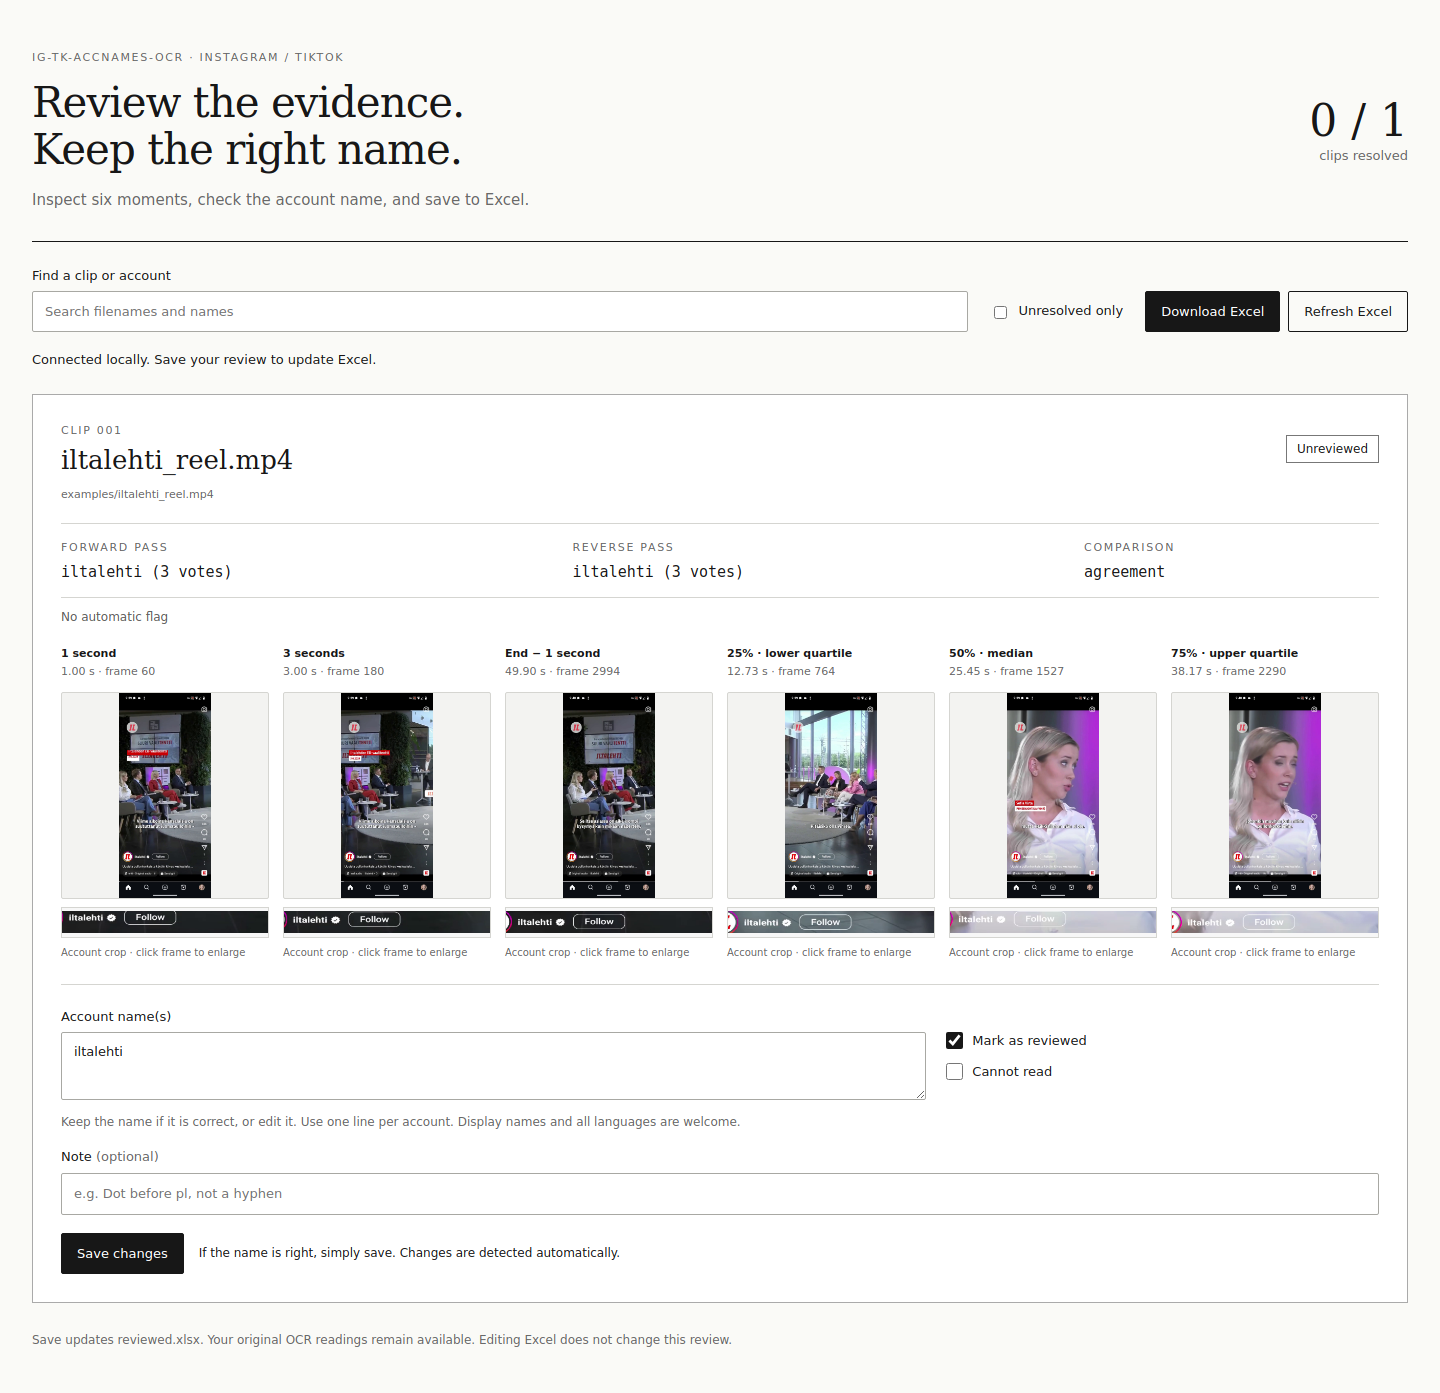
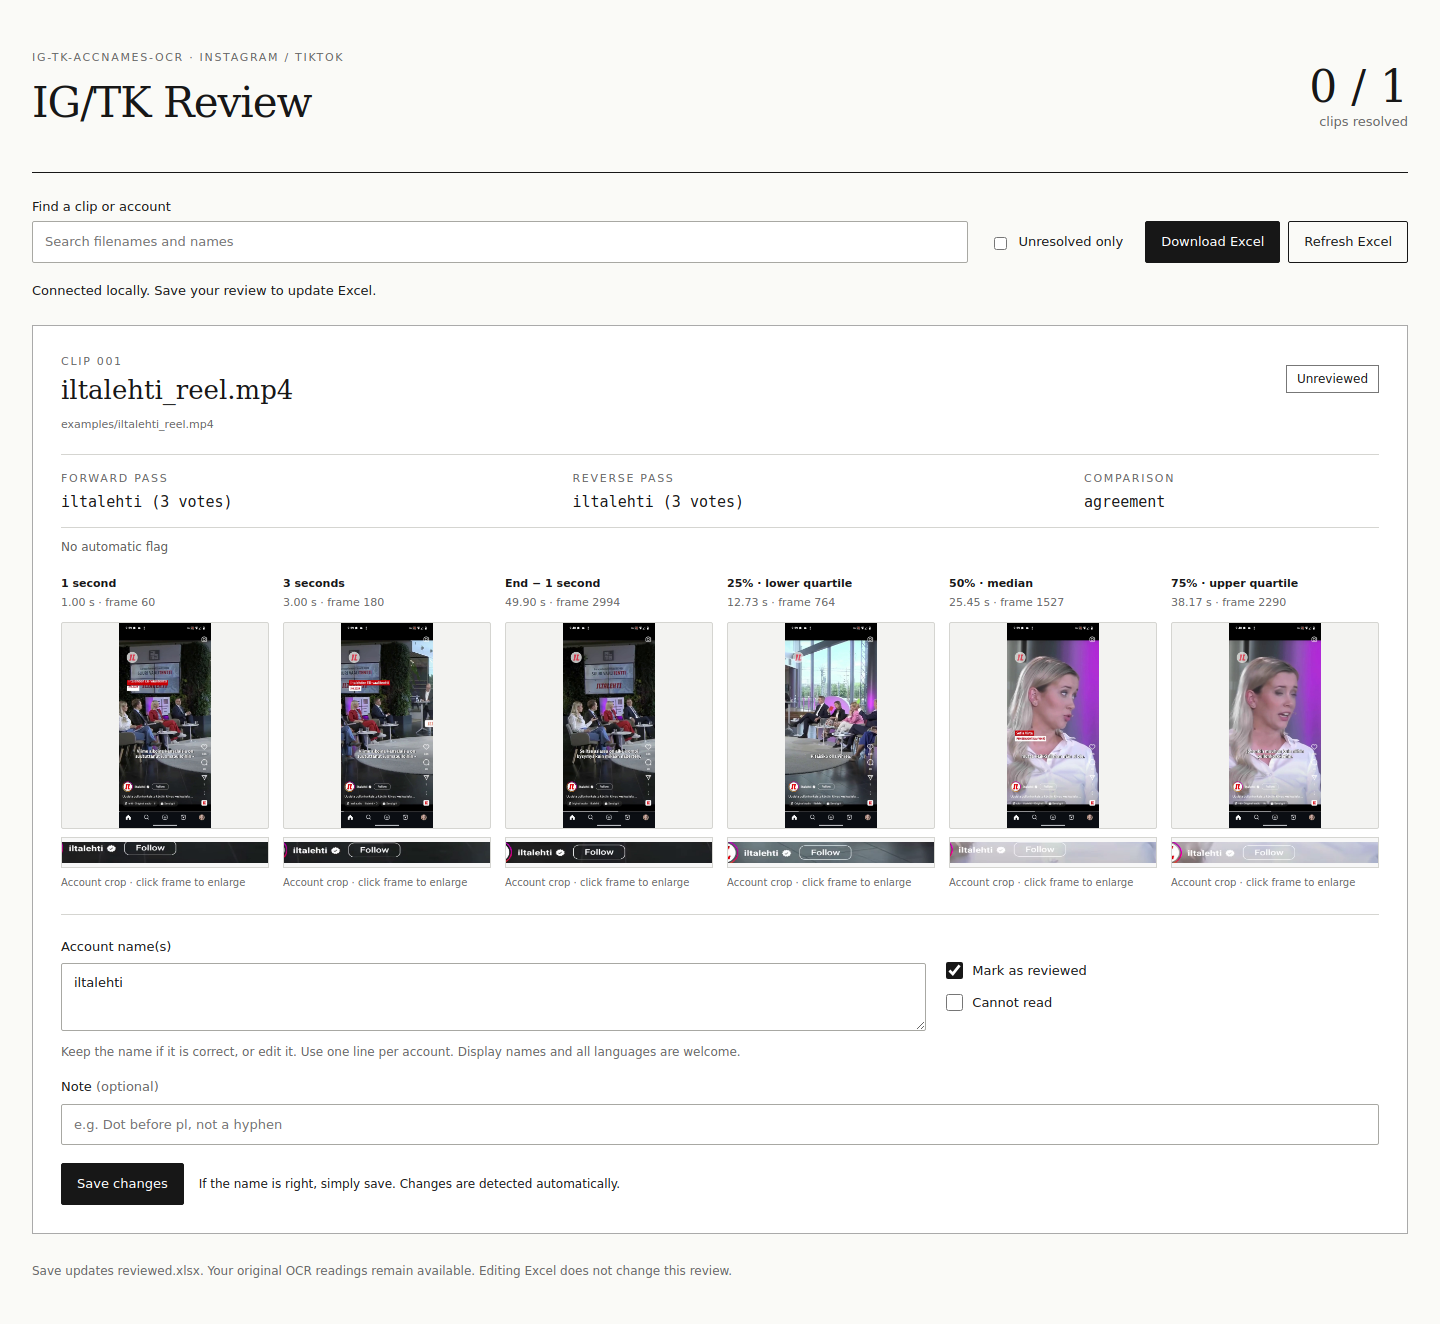
simpler review heading

diff --git a/examples/review_demo/review.html b/examples/review_demo/review.html
@@ -1,5 +1,5 @@
-<!doctype html><html lang="en"><head><meta charset="utf-8"><meta name="viewport" content="width=device-width,initial-scale=1"><title>IG-TK-AccNames-OCR · Review</title><link rel="stylesheet" href="review.css"><script src="review.js" defer></script></head><body>
-<header><div><span class="eyebrow">IG-TK-AccNames-OCR · INSTAGRAM / TIKTOK</span><h1>Review the evidence.<br>Keep the right name.</h1><p>Inspect six moments, check the account name, and save to Excel.</p></div><div class="progress"><strong id="count">—</strong><span>clips resolved</span></div></header>
+<!doctype html><html lang="en"><head><meta charset="utf-8"><meta name="viewport" content="width=device-width,initial-scale=1"><title>IG/TK Review</title><link rel="stylesheet" href="review.css"><script src="review.js" defer></script></head><body>
+<header><div><span class="eyebrow">IG-TK-AccNames-OCR · INSTAGRAM / TIKTOK</span><h1>IG/TK Review</h1></div><div class="progress"><strong id="count">—</strong><span>clips resolved</span></div></header>
 <nav><label class="search">Find a clip or account<input id="search" type="search" placeholder="Search filenames and names"></label><label class="filter"><input id="pending" type="checkbox"> Unresolved only</label><div class="downloads"><a href="reviewed.xlsx" download>Download Excel</a><button id="export" type="button" disabled>Refresh Excel</button></div></nav>
 <p id="connection" role="status">Connecting to the local review server…</p>
 <main><article data-id="182d13cfb5fc40a6a11b">

diff --git a/ig_tk_ocr/review_page.py b/ig_tk_ocr/review_page.py
@@ -52,8 +52,8 @@ def save_review(results, path):
 <p class="hint">Keep the name if it is correct, or edit it. Use one line per account. Display names and all languages are welcome.</p>
 <label>Note <span class="optional">(optional)</span><input name="notes" maxlength="2000" placeholder="e.g. Dot before pl, not a hyphen"></label>
 <div class="save-row"><button type="submit" disabled>Save changes</button><span class="save-status" role="status">Start the local review server to edit.</span></div></form></article>''')
-    path.write_text('''<!doctype html><html lang="en"><head><meta charset="utf-8"><meta name="viewport" content="width=device-width,initial-scale=1"><title>IG-TK-AccNames-OCR · Review</title><link rel="stylesheet" href="review.css"><script src="review.js" defer></script></head><body>
-<header><div><span class="eyebrow">IG-TK-AccNames-OCR · INSTAGRAM / TIKTOK</span><h1>Review the evidence.<br>Keep the right name.</h1><p>Inspect six moments, check the account name, and save to Excel.</p></div><div class="progress"><strong id="count">—</strong><span>clips resolved</span></div></header>
+    path.write_text('''<!doctype html><html lang="en"><head><meta charset="utf-8"><meta name="viewport" content="width=device-width,initial-scale=1"><title>IG/TK Review</title><link rel="stylesheet" href="review.css"><script src="review.js" defer></script></head><body>
+<header><div><span class="eyebrow">IG-TK-AccNames-OCR · INSTAGRAM / TIKTOK</span><h1>IG/TK Review</h1></div><div class="progress"><strong id="count">—</strong><span>clips resolved</span></div></header>
 <nav><label class="search">Find a clip or account<input id="search" type="search" placeholder="Search filenames and names"></label><label class="filter"><input id="pending" type="checkbox"> Unresolved only</label><div class="downloads"><a href="reviewed.xlsx" download>Download Excel</a><button id="export" type="button" disabled>Refresh Excel</button></div></nav>
 <p id="connection" role="status">Connecting to the local review server…</p>
 <main>''' + ''.join(cards) + '''</main><p id="empty" hidden>No clips match this filter.</p>
